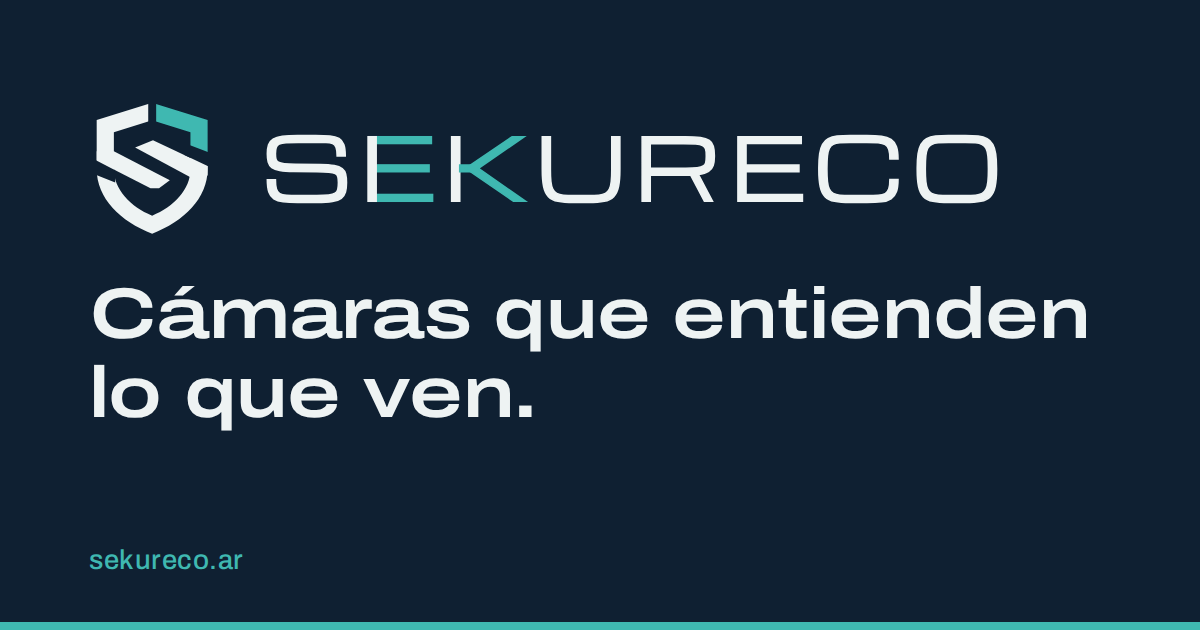
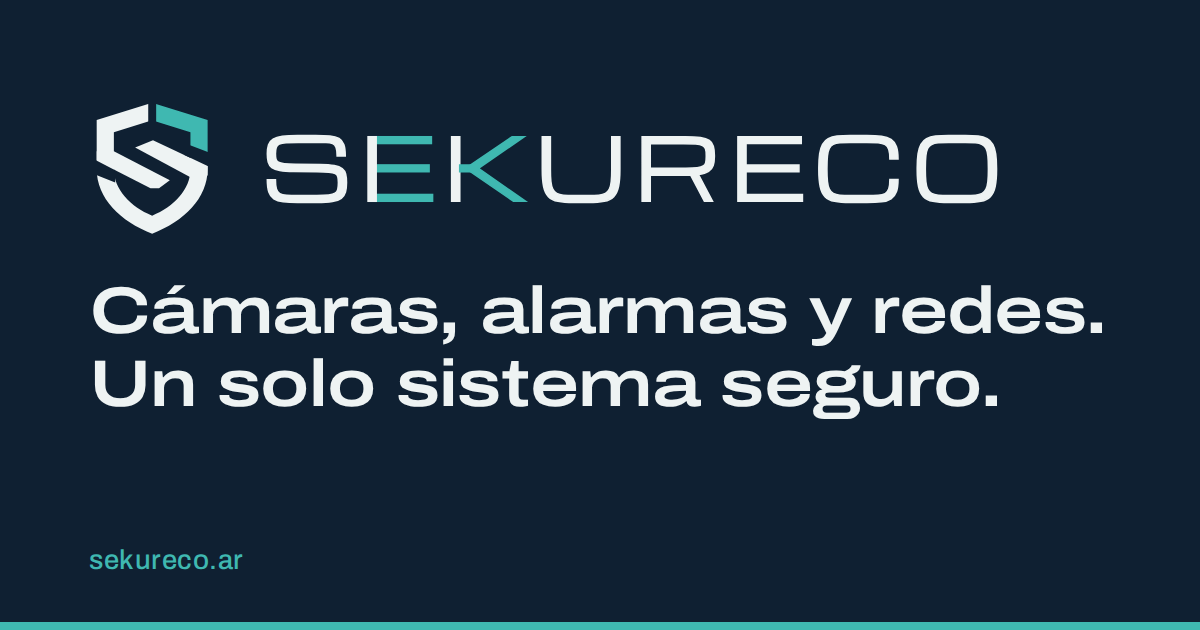
Textos v2: más serios y detallados, y sin marcas ni detalles técnicos de equipos
- Hero, Servicios (antes "Qué hacemos"), Cómo trabajamos (paso 4: "Monitoreo y
  mantenimiento"), Cómo elegimos y Contacto ("Pedí un relevamiento." + bajada nueva)
  con los textos nuevos; ids y anclas sin cambios.
- Se sacan DSC PowerSeries Neo, TP-Link VIGI y Cat6 de todo lo publicado.
- description, og/twitter:description y JSON-LD con la descripción nueva; alt de la
  imagen OG con la frase nueva.
- tools/og.py: la frase es el H1 nuevo, una línea por oración, achicada lo justo
  para entrar entre los márgenes (66 px). Imagen regenerada.
- CLAUDE.md: regla dura 9 (el sitio no publica marcas, modelos, firmware ni
  configuración de redes de clientes); las marcas quedan como información interna.

Changed region(s): [[0.0617, 0.4524, 0.925, 0.6937]]

diff --git a/index.html b/index.html
@@ -4,7 +4,7 @@
 <meta charset="utf-8">
 <meta name="viewport" content="width=device-width, initial-scale=1">
 <title>Seguridad electrónica y ciberseguridad | sekureco</title>
-<meta name="description" content="Instalamos cámaras con análisis por IA y alarmas cableadas, las monitoreamos y cuidamos tu red. Seguridad electrónica y ciberseguridad en CABA y GBA.">
+<meta name="description" content="Videovigilancia con IA, alarmas cableadas y ciberseguridad para empresas y comercios en CABA y GBA. Diseño, instalación y monitoreo.">
 <link rel="canonical" href="https://sekureco.ar/">
 <meta name="theme-color" content="#0F2032">
 <meta property="og:type" content="website">
@@ -12,17 +12,17 @@
 <meta property="og:locale" content="es_AR">
 <meta property="og:url" content="https://sekureco.ar/">
 <meta property="og:title" content="SEKURECO · Seguridad electrónica y ciberseguridad">
-<meta property="og:description" content="Instalamos cámaras con análisis por IA y alarmas cableadas, las monitoreamos y cuidamos tu red. Seguridad electrónica y ciberseguridad en CABA y GBA.">
+<meta property="og:description" content="Videovigilancia con IA, alarmas cableadas y ciberseguridad para empresas y comercios en CABA y GBA. Diseño, instalación y monitoreo.">
 <meta property="og:image" content="https://sekureco.ar/assets/og/sekureco-og.png">
 <meta property="og:image:type" content="image/png">
 <meta property="og:image:width" content="1200">
 <meta property="og:image:height" content="630">
-<meta property="og:image:alt" content="Escudo y logo de SEKURECO sobre fondo azul, con la frase: Cámaras que entienden lo que ven.">
+<meta property="og:image:alt" content="Escudo y logo de SEKURECO sobre fondo azul, con la frase: Cámaras, alarmas y redes. Un solo sistema seguro.">
 <meta name="twitter:card" content="summary_large_image">
 <meta name="twitter:title" content="SEKURECO · Seguridad electrónica y ciberseguridad">
-<meta name="twitter:description" content="Instalamos cámaras con análisis por IA y alarmas cableadas, las monitoreamos y cuidamos tu red. Seguridad electrónica y ciberseguridad en CABA y GBA.">
+<meta name="twitter:description" content="Videovigilancia con IA, alarmas cableadas y ciberseguridad para empresas y comercios en CABA y GBA. Diseño, instalación y monitoreo.">
 <meta name="twitter:image" content="https://sekureco.ar/assets/og/sekureco-og.png">
-<meta name="twitter:image:alt" content="Escudo y logo de SEKURECO sobre fondo azul, con la frase: Cámaras que entienden lo que ven.">
+<meta name="twitter:image:alt" content="Escudo y logo de SEKURECO sobre fondo azul, con la frase: Cámaras, alarmas y redes. Un solo sistema seguro.">
 <meta name="referrer" content="no-referrer">
 <link rel="icon" href="/favicon.svg" type="image/svg+xml">
 <link rel="preload" href="/assets/fonts/archivo.woff2" as="font" type="font/woff2" crossorigin>
@@ -39,7 +39,7 @@
   "url": "https://sekureco.ar/",
   "logo": "https://sekureco.ar/assets/brand/sekureco-vertical.svg",
   "image": "https://sekureco.ar/assets/og/sekureco-og.png",
-  "description": "Seguridad electrónica (videovigilancia con análisis, alarmas cableadas, monitoreo e instalación) y ciberseguridad para empresas.",
+  "description": "Videovigilancia con IA, alarmas cableadas y ciberseguridad para empresas y comercios en CABA y GBA. Diseño, instalación y monitoreo.",
   "email": "contacto@sekureco.ar",
   "telephone": "+5491165461966",
   "areaServed": [
@@ -108,8 +108,8 @@
   <section class="hero">
     <div class="wrap hero-in">
       <div class="hero-copy">
-        <h1>Cámaras que entienden lo que ven.</h1>
-        <p class="lead">Instalamos videovigilancia y alarmas cableadas. Un equipo chico las monitorea con ayuda de inteligencia artificial, que separa lo que importa del movimiento de todos los días. Y protegemos las redes por donde viaja todo eso.</p>
+        <h1>Cámaras, alarmas y redes. Un solo sistema seguro.</h1>
+        <p class="lead">Diseñamos, instalamos y monitoreamos videovigilancia con análisis por inteligencia artificial, alarmas cableadas y redes protegidas para empresas y comercios de CABA y GBA. Cada parte se piensa junto con las demás, para que la seguridad física no abra una puerta digital.</p>
         <div class="actions">
           <a class="btn" href="https://wa.me/5491165461966?text=Hola%20SEKURECO%2C%20quiero%20hacer%20una%20consulta%20sobre%20">Escribinos por WhatsApp</a>
           <a class="btn-ghost" href="#proceso">Cómo trabajamos</a>
@@ -124,26 +124,26 @@
 
   <section class="section" id="servicios" aria-labelledby="t-servicios">
     <div class="wrap sec-grid">
-      <h2 id="t-servicios">Qué hacemos</h2>
+      <h2 id="t-servicios">Servicios</h2>
       <div class="sec-body">
       <div class="svc-group" id="seg-electronica">
         <h3 class="svc-title">Seguridad electrónica</h3>
         <dl class="services">
           <div id="videovigilancia">
             <dt>Videovigilancia con análisis</dt>
-            <dd>Cámaras IP que reconocen personas, vehículos e ingresos a zonas, y avisan solo cuando hay algo para mirar.</dd>
+            <dd>Cámaras IP con análisis por inteligencia artificial que distingue personas y vehículos y detecta ingresos a zonas o cruces de líneas definidas para tu lugar. Las alertas llegan cuando hay algo que revisar, y se reducen las falsas alarmas por sombras, animales o cambios de luz. Las grabaciones quedan en un equipo local, con acceso protegido.</dd>
           </div>
           <div id="alarmas">
             <dt>Alarmas</dt>
-            <dd>Paneles con sensores cableados, integrados al mismo monitoreo que las cámaras.</dd>
+            <dd>Centrales con sensores cableados de apertura, movimiento y rotura, organizadas en zonas según cómo se usa cada espacio. Se integran al mismo sistema que las cámaras, para ver qué pasó cuando se activa un sensor.</dd>
           </div>
           <div id="monitoreo">
             <dt>Monitoreo</dt>
-            <dd>Un equipo revisa cada evento que marca el sistema y actúa: verifica, llama y da aviso.</dd>
+            <dd>Un operador revisa cada evento que marca el sistema antes de actuar: lo confirma con las cámaras, se comunica con los contactos que nos indiques y, si corresponde, da aviso a las autoridades. Cada evento queda registrado.</dd>
           </div>
           <div id="instalacion">
             <dt>Instalación y cableado</dt>
-            <dd>Canalización y cableado Cat6 prolijo, documentado y preparado para crecer.</dd>
+            <dd>Cableado estructurado, canalizado y etiquetado de punta a punta. Al terminar te entregamos la documentación de la instalación, para que el mantenimiento y las ampliaciones sean simples.</dd>
           </div>
         </dl>
       </div>
@@ -152,23 +152,23 @@
         <dl class="services">
           <div id="diagnostico">
             <dt>Diagnóstico de seguridad</dt>
-            <dd>Revisamos tu red, equipos expuestos, contraseñas y respaldos, y te entregamos un informe con qué resolver primero.</dd>
+            <dd>Revisamos tu red, los equipos conectados, los servicios expuestos a internet, las contraseñas y los respaldos. Te entregamos un informe claro, con los riesgos ordenados por prioridad y qué hacer con cada uno.</dd>
           </div>
           <div id="redes">
             <dt>Redes segmentadas y Wi-Fi</dt>
-            <dd>Redes y SSID separados para el equipo, los invitados, las cámaras y los dispositivos, para que un equipo comprometido no llegue al resto.</dd>
+            <dd>Separamos la red según su función: personal, invitados, cámaras y dispositivos, cada una con su propio Wi-Fi y sus reglas. Así, un equipo comprometido no tiene camino libre hacia el resto.</dd>
           </div>
           <div id="firewall">
             <dt>Firewall y acceso remoto</dt>
-            <dd>Reglas entre redes y acceso por VPN, sin abrir puertos a internet.</dd>
+            <dd>Definimos qué puede comunicarse con qué, y el acceso desde afuera se hace solo por VPN, sin abrir puertos a internet. Ver tus cámaras desde el celular no tiene por qué ser un riesgo.</dd>
           </div>
           <div id="respaldos">
             <dt>Respaldos</dt>
-            <dd>Copias automáticas y verificadas, fuera del alcance de un ataque de ransomware.</dd>
+            <dd>Copias automáticas, cifradas y verificadas, con al menos una copia aislada de la red. Probamos que se puedan restaurar: un respaldo que nunca se probó no es un respaldo.</dd>
           </div>
           <div id="capacitacion">
             <dt>Capacitación</dt>
-            <dd>Talleres para tu equipo sobre phishing, contraseñas y manejo de información, con el material de la presentación para quedarse.</dd>
+            <dd>Talleres prácticos para tu equipo: cómo reconocer un phishing, cómo manejar contraseñas y qué hacer ante un incidente, con ejemplos del día a día de tu empresa.</dd>
           </div>
         </dl>
       </div>
@@ -180,10 +180,10 @@
     <div class="wrap sec-grid">
       <h2 id="t-proceso">Cómo trabajamos</h2>
       <ol class="steps sec-body">
-        <li id="paso-relevamiento"><span class="step-n" aria-hidden="true">1</span><h3>Relevamiento</h3><p>Recorremos el lugar, marcamos accesos, puntos ciegos y recorridos de cable.</p></li>
-        <li id="paso-propuesta"><span class="step-n" aria-hidden="true">2</span><h3>Propuesta</h3><p>Solo con equipos que antes armamos y probamos en nuestro banco de pruebas.</p></li>
-        <li id="paso-instalacion"><span class="step-n" aria-hidden="true">3</span><h3>Instalación</h3><p>Cableada de punta a punta, con cada cámara y sensor identificado.</p></li>
-        <li id="paso-monitoreo"><span class="step-n" aria-hidden="true">4</span><h3>Monitoreo</h3><p>Ajustamos las detecciones a tu lugar y quedamos atentos a cada evento.</p></li>
+        <li id="paso-relevamiento"><span class="step-n" aria-hidden="true">1</span><h3>Relevamiento</h3><p>Visitamos el lugar y lo recorremos con vos. Identificamos accesos, puntos ciegos, zonas críticas, la red existente y los recorridos posibles de cable.</p></li>
+        <li id="paso-propuesta"><span class="step-n" aria-hidden="true">2</span><h3>Propuesta</h3><p>Te presentamos un diseño con la ubicación de cada equipo y un presupuesto detallado. Solo proponemos equipos que antes instalamos y probamos en nuestro banco de pruebas.</p></li>
+        <li id="paso-instalacion"><span class="step-n" aria-hidden="true">3</span><h3>Instalación</h3><p>Instalación cableada de punta a punta, con cada cámara y sensor identificado. Al terminar probamos todo con vos y te entregamos la documentación y los accesos.</p></li>
+        <li id="paso-monitoreo"><span class="step-n" aria-hidden="true">4</span><h3>Monitoreo y mantenimiento</h3><p>Durante las primeras semanas ajustamos las detecciones a la dinámica real del lugar. Después mantenemos los equipos actualizados y seguimos cada evento.</p></li>
       </ol>
     </div>
   </section>
@@ -194,19 +194,19 @@
       <div class="criteria-list sec-body">
         <div id="cable">
           <h3>Cable antes que inalámbrico</h3>
-          <p>Un sensor cableado no depende de baterías ni de señales de radio que se puedan interferir. Por eso las alarmas son DSC PowerSeries Neo con sensores cableados, y cada cámara llega por Cat6.</p>
+          <p>Un sensor cableado no depende de baterías ni de señales de radio que se puedan interferir. Lo inalámbrico queda solo para donde el cable no es posible.</p>
         </div>
         <div id="actualizados">
           <h3>Equipos actualizados y cerrados</h3>
-          <p>Usamos equipos cuyos fabricantes publican actualizaciones de seguridad, y los dejamos cerrados: sin acceso desde la nube del fabricante, salvo que lo pidas.</p>
+          <p>Trabajamos con fabricantes que publican actualizaciones de seguridad y las sostienen en el tiempo. Cada equipo se instala con la configuración cerrada: sin acceso desde la nube del fabricante, salvo que lo pidas.</p>
         </div>
         <div id="red-camaras">
           <h3>Las cámaras, en su propia red</h3>
-          <p>Trabajamos con cámaras TP-Link VIGI y las conectamos a una red propia, sin salida directa a internet y accesible solo por VPN. Así, una cámara no se convierte en la puerta de entrada a tu empresa.</p>
+          <p>Las cámaras van en una red aislada, sin salida directa a internet y con acceso solo por VPN. Así, una cámara no se convierte en la puerta de entrada a tu empresa.</p>
         </div>
         <div id="sin-probar">
           <h3>Nada sin probar</h3>
-          <p>Antes de proponerte algo, lo instalamos y lo hacemos fallar nosotros.</p>
+          <p>Antes de proponerte un equipo, lo instalamos en nuestro banco de pruebas y lo hacemos fallar: cortes de luz, de red y de cable. Si no pasa esas pruebas, no se instala.</p>
         </div>
       </div>
     </div>
@@ -215,7 +215,8 @@
   <section class="contact" id="contacto" aria-labelledby="t-contacto">
     <div class="wrap sec-grid">
       <div class="sec-body">
-        <h2 id="t-contacto">Contanos qué querés proteger.</h2>
+        <h2 id="t-contacto">Pedí un relevamiento.</h2>
+        <p class="contact-lead">Contanos qué necesitás proteger y coordinamos una visita.</p>
         <p class="contact-wa"><a class="btn btn-wa" href="https://wa.me/5491165461966?text=Hola%20SEKURECO%2C%20quiero%20hacer%20una%20consulta%20sobre%20"><span class="btn-k">WhatsApp</span> 11 6546-1966</a><button class="copy" type="button" data-copy="+5491165461966" aria-live="polite">copiar<span class="vh"> el número de WhatsApp</span></button></p>
         <p class="contact-line"><a class="contact-mail" href="mailto:contacto@sekureco.ar">contacto@sekureco.ar</a><button class="copy" type="button" data-copy="contacto@sekureco.ar" aria-live="polite">copiar<span class="vh"> contacto@sekureco.ar</span></button></p>
         <p class="contact-sec">Reportes de seguridad: <span class="contact-par"><a href="mailto:seguridad@sekureco.ar">seguridad@sekureco.ar</a><button class="copy" type="button" data-copy="seguridad@sekureco.ar" aria-live="polite">copiar<span class="vh"> seguridad@sekureco.ar</span></button></span></p>

diff --git a/assets/styles.css b/assets/styles.css
@@ -260,6 +260,7 @@ a { color: inherit; }
   padding: clamp(var(--sp6), 12vw, var(--sp7)) 0 clamp(var(--sp6), 14vw, 233px);
 }
 .contact h2 { font-size: clamp(2.2rem, 4.6vw, 3.54rem); max-width: 14ch; }
+.contact-lead { margin-top: var(--sp3); max-width: 52ch; color: #C4D1D6; font-size: 1.125rem; }
 .contact-line { margin-top: var(--sp4); }
 .contact-mail {
   display: inline-block;

diff --git a/tools/og.py b/tools/og.py
@@ -7,7 +7,8 @@ del propio sitio. El sitio no carga nada de esto: solo publica el PNG.
 
 Proporciones: margen de 89 px (Fibonacci) a los lados; el bloque arranca en la línea de 38,2 %
 del alto; la palabra mide la mitad del escudo, como en la intro y el header; la frase va en el
-paso de 72 px de la escala del sitio.
+paso de 72 px de la escala del sitio, una línea por oración (sin huérfanas); si la más larga no
+entra entre los márgenes, se achica lo justo.
 
 Uso (con Playwright y fonttools: ~/.venvs/sekureco-tools):
     ~/.venvs/sekureco-tools/bin/python tools/og.py
@@ -27,7 +28,7 @@ ANCHO, ALTO = 1200, 630
 NAVY, MIST, TEAL_L, BAJADA = "#0F2032", "#EEF3F3", "#3FB8B1", "#C4D1D6"
 MARGEN = 89                      # Fibonacci
 ESCUDO = 144                     # alto del escudo (Fibonacci); la palabra mide la mitad
-FRASE = "Cámaras que entienden lo que ven."
+FRASE = "Cámaras, alarmas y redes. Un solo sistema seguro."
 DOMINIO = "sekureco.ar"
 
 subprocess.run([sys.executable, str(ROOT / "tools" / "header.py")], check=True, stdout=subprocess.DEVNULL)
@@ -53,7 +54,7 @@ h1 {{ position: absolute; left: {MARGEN}px; top: {round(ALTO * 0.382) + 34}px; m
 .raya {{ position: absolute; left: 0; right: 0; bottom: 0; height: 8px; background: {TEAL_L}; }}
 </style></head><body>
 <div class="lockup">{escudo}{palabra}</div>
-<h1>{FRASE}</h1>
+<h1>{FRASE.replace(". ", ".<br>")}</h1>
 <div class="dom">{DOMINIO}</div>
 <div class="raya"></div>
 </body></html>"""
@@ -66,6 +67,13 @@ with sync_playwright() as p:
     pg = b.new_page(viewport={"width": ANCHO, "height": ALTO}, device_scale_factor=1)
     pg.goto(tmp.as_uri())
     pg.evaluate("document.fonts.ready")
+    # una línea por oración: si la más larga no entra entre los márgenes a 72 px, se achica lo justo
+    tam = pg.evaluate("""(max) => {
+        const h = document.querySelector('h1'); h.style.whiteSpace = 'nowrap';
+        const r = document.createRange(); let ancho = 0;
+        for (const n of h.childNodes) if (n.nodeType === 3) { r.selectNodeContents(n); ancho = Math.max(ancho, r.getBoundingClientRect().width); }
+        const t = Math.min(72, Math.floor(72 * max / ancho));
+        h.style.fontSize = t + 'px'; return t; }""", ANCHO - 2 * MARGEN)
     pg.screenshot(path=str(OUT), omit_background=False)
     b.close()
-print(f"{OUT.relative_to(ROOT)}: {ANCHO}×{ALTO}")
+print(f"{OUT.relative_to(ROOT)}: {ANCHO}×{ALTO}, frase a {tam} px")

diff --git a/CLAUDE.md b/CLAUDE.md
@@ -7,7 +7,7 @@ cualquier persona que se sume. Leelo entero antes de tocar algo.
 
 Sitio institucional de **SEKURECO S.A.**, empresa de seguridad electrónica y ciberseguridad
 de Buenos Aires: videovigilancia con análisis por IA monitoreada por un equipo chico,
-alarmas cableadas (DSC PowerSeries Neo), cámaras TP-Link VIGI, instalación con Cat6, y
+alarmas cableadas, cámaras IP con análisis, cableado estructurado y
 servicios de ciberseguridad (diagnóstico, redes segmentadas y SSID, firewall y VPN,
 respaldos, capacitación).
 
@@ -25,6 +25,7 @@ respaldos, capacitación).
 6. **No tocar DNS ni MX.** El correo @sekureco.ar funciona con Cloudflare Email Routing; un cambio de DNS lo puede cortar.
 7. **Nada sin probar.** Antes de proponer un cambio, verificarlo (abrir la página, mirar consola, probar en celular).
 8. **Lo generado no se edita a mano.** Logo, intro y logo del header salen de `tools/`. Si hay que cambiarlos, se cambia el script y se regenera (ver `tools/README.md`).
+9. **Nada de marcas ni detalles técnicos en el sitio.** El sitio no publica marcas, modelos, versiones de firmware ni especificaciones técnicas de equipos (ni DSC, ni TP-Link/VIGI, ni Cat6, ni similares), ni detalles concretos de configuración de redes de clientes. Vale para todo lo publicado: textos, `<head>`, JSON-LD, imagen OG, `alt` y `aria-label`. Motivo: no darle a un atacante pistas de qué vulnerabilidades buscar. Antes de cada PR: `grep -r -i -E 'dsc|tp-link|vigi|cat6|powerseries' dist/` tiene que dar cero.
 
 ## Infraestructura
 
@@ -104,7 +105,7 @@ invertido, es el ">" de terminal que aparece en el sitio.
 ## Contenido y datos de contacto
 
 - **WhatsApp:** +54 9 11 6546-1966, link `https://wa.me/5491165461966?text=…` con el texto prellenado "Hola SEKURECO, quiero hacer una consulta sobre " (codificado). Se muestra "11 6546-1966" con la etiqueta WhatsApp; "copiar" copia `+5491165461966`. Es el botón principal del hero (el mail queda como alternativa debajo), va primero en Contacto y es la primera línea del árbol de Contacto del menú (en index, 404 y privacidad). Sin `target="_blank"`: en el celular abre la app.
-- **Marcas que usamos** (se mencionan en "Cómo elegimos", una por criterio y sin listas): cámaras TP-Link VIGI, alarmas DSC PowerSeries Neo, cableado Cat6. TP-Link VIGI va en "Las cámaras, en su propia red", no en un criterio sobre origen (TP-Link es de origen chino y se leería como contradicción); el criterio de equipos habla de actualizaciones y configuración cerrada. No se nombran otras marcas, ni países, ni se habla de otros fabricantes.
+- **Equipos que usamos (información interna: NO se publica, ver regla 9):** alarmas DSC PowerSeries Neo, cámaras TP-Link VIGI, cableado Cat6. El sitio habla de criterios (cable antes que inalámbrico, equipos actualizados y cerrados, cámaras en red aislada, nada sin probar), nunca de marcas, modelos ni países.
 - **SEO y compartir:** description, canonical, theme-color, Open Graph y Twitter en el `<head>`; `sitemap.xml` (/ y /privacidad) y la línea Sitemap en `robots.txt`. JSON-LD de tipo Organization en el index (sin dirección ni horarios): un `<script type="application/ld+json">` no es ejecutable y no viola la CSP (probado en Chromium y Firefox con un control positivo). Ningún otro `<script>` inline.
 - **/privacidad:** la sirve Pages desde `privacidad.html`; link en el footer de todas las páginas. Si cambia lo que guarda el navegador (localStorage/sessionStorage) o se agrega un formulario, hay que actualizarla y cambiar la fecha.
 
